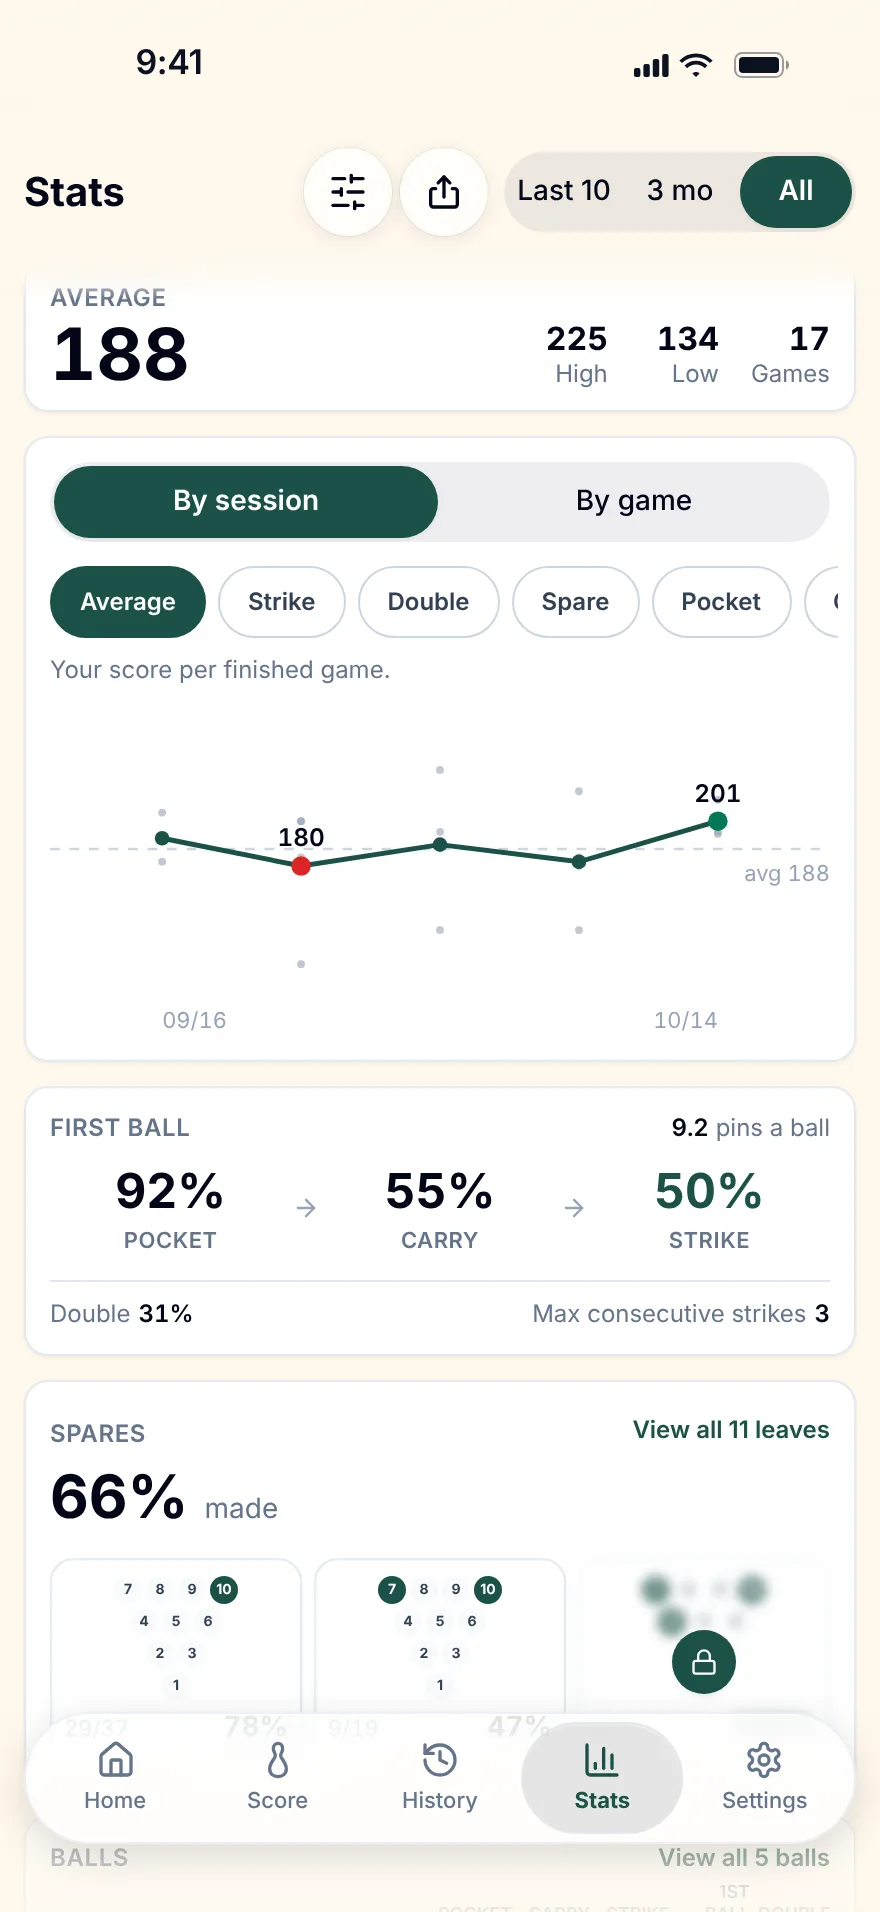
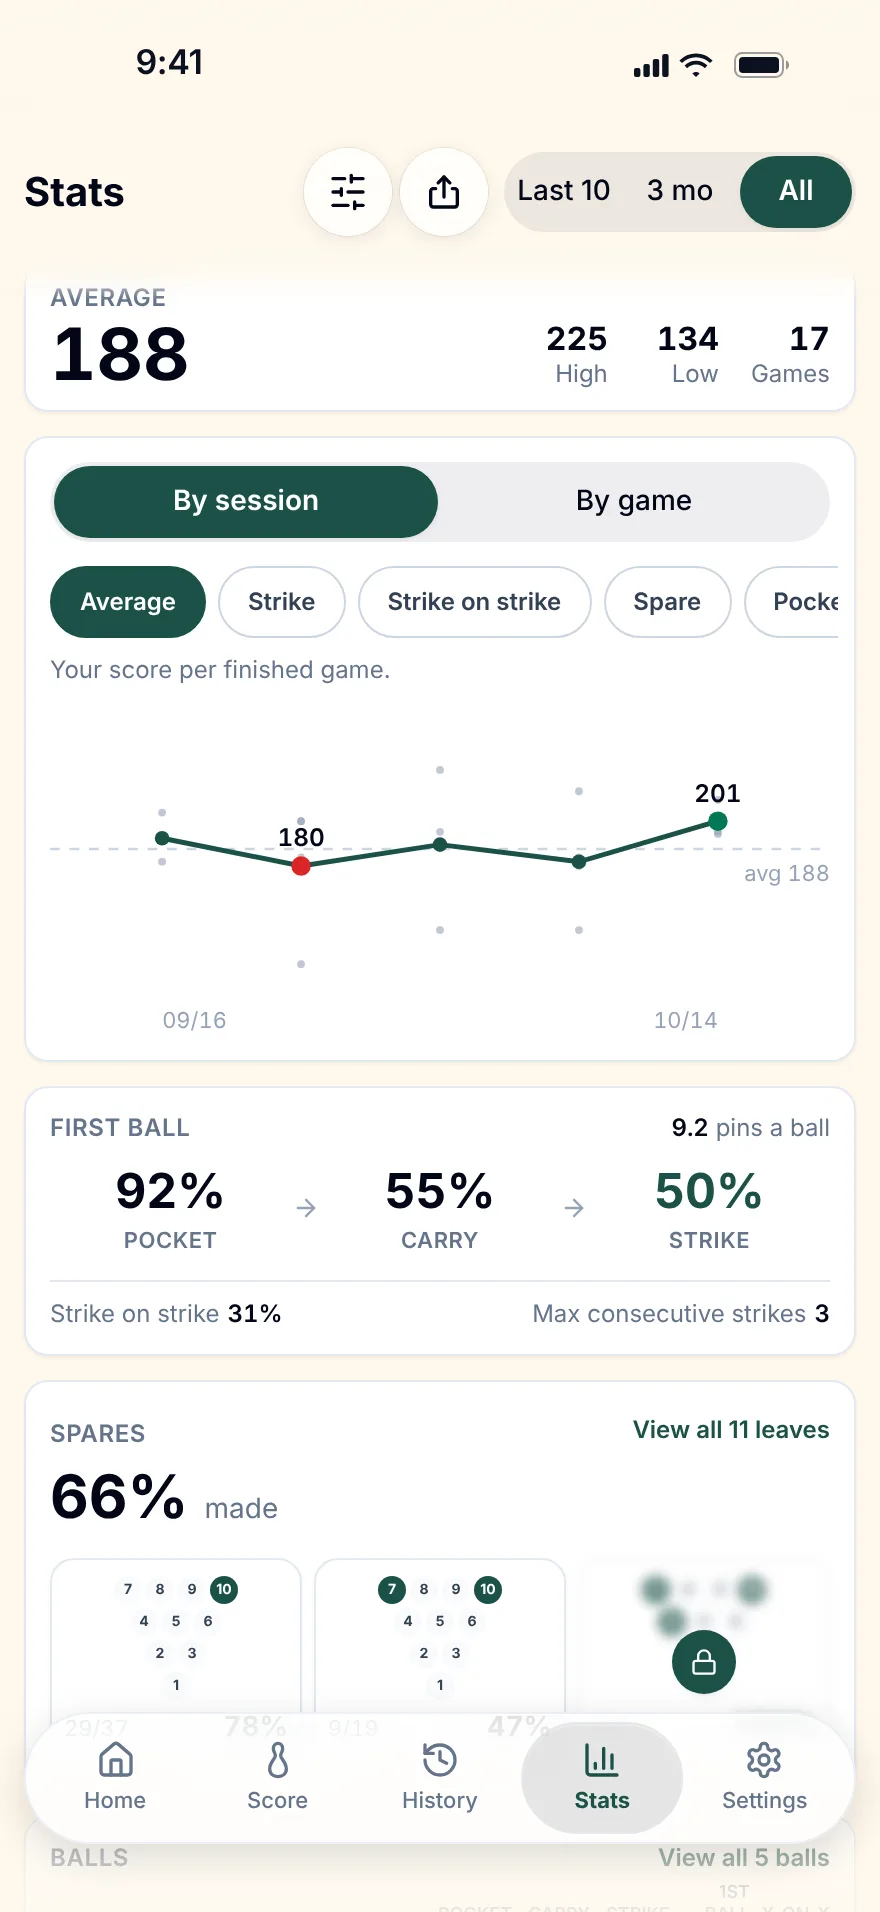
Strike on strike is back, X-on-X where space is tight
A double is two strikes in a row, not the rate a strike is followed by
another, so the label returns to Strike on strike. The Balls card's column
heading and a ball's table row read X-on-X, with the words for screen
readers. 0.56.1; screenshots retaken.

Claude-Session: https://claude.ai/code/session_014ZeUb7epEywcQcRZo3aizj

Changed region(s): [[0.4602, 0.3086, 0.9511, 0.3394], [0.0614, 0.6789, 0.3068, 0.7097]]

diff --git a/src/components/Stats.tsx b/src/components/Stats.tsx
@@ -67,9 +67,11 @@ const METRICS = {
     minSpan: 25
   },
   strikeOnStrikePct: {
-    // A double, as bowlers say it: a strike that follows a strike. "Strike on
-    // strike" said the same in three words, and a heading three lines tall.
-    label: "Double",
+    // Spelled out where there is room. Where there is not, it is "X-on-X", the
+    // scoresheet's own mark for a strike (STRIKE_ON_STRIKE_SHORT). "Double"
+    // was tried and is not the same thing: a double is two strikes in a row,
+    // where this is how often a strike was followed by another.
+    label: "Strike on strike",
     value: (s: BowlingStats) => s.strikeOnStrikePct,
     format: (v: number) => `${Math.round(v)}%`,
     min: 0,
@@ -738,7 +740,7 @@ function FirstBallCard({
       </dl>
       <dl className="mt-3 flex justify-between gap-3 border-t border-edge pt-2 text-xs text-ink-secondary">
         <div className="flex gap-1">
-          <dt>Double</dt>
+          <dt>Strike on strike</dt>
           <dd className="font-semibold tabular-nums text-ink">{pct(stats.strikeOnStrikePct)}</dd>
         </div>
         <div className="flex gap-1">
@@ -796,9 +798,13 @@ function StatNote({ text, onDismiss }: { text: string; onDismiss: () => void }) 
   );
 }
 
+/** Strike on strike where there is no room for the words: X is the strike's
+ *  mark on a scoresheet, so a bowler reads it at a glance. */
+const STRIKE_ON_STRIKE_SHORT = "X-on-X";
+
 /** A ball's columns, in order, shared by the heading row and every ball so
  *  each number sits under the word that names it. Strike leads the three
- *  rates it ends; the first ball average and the double rate follow. Sized so
+ *  rates it ends; the first ball average and strike on strike follow. Sized so
  *  all five fit beside the name on a 360px phone (ADR-144). */
 const BALL_COLUMNS: ReadonlyArray<{
   key: string;
@@ -810,7 +816,14 @@ const BALL_COLUMNS: ReadonlyArray<{
   { key: "carry", label: "Carry", width: "w-9", value: (b) => pct(b.carryPct) },
   { key: "strike", label: "Strike", width: "w-9", value: (b) => pct(b.strikePct) },
   { key: "first ball", label: "1st ball", width: "w-9", value: (b) => oneDp(b.firstBallAverage) },
-  { key: "double", label: "Double", width: "w-9", value: (b) => pct(b.strikeOnStrikePct) }
+  // The key is what a screen reader hears with each number; the heading is
+  // the short form, which fits one line where the words took three.
+  {
+    key: "strike on strike",
+    label: STRIKE_ON_STRIKE_SHORT,
+    width: "w-9",
+    value: (b) => pct(b.strikeOnStrikePct)
+  }
 ];
 
 /** The ball's picture and name, taking whatever the columns leave. Below about
@@ -956,7 +969,11 @@ function BallDetails({
               cells={ball.byGame.map((c) => pinsPerBall(c.firstBallPins, c.firstBalls))}
               format={oneDp}
             />
-            <MetricRow label="Double" cells={ball.byGame.map((c) => rateOf(c.followUps, c.followUpOpps))} />
+            <MetricRow
+              label={STRIKE_ON_STRIKE_SHORT}
+              spoken="Strike on strike"
+              cells={ball.byGame.map((c) => rateOf(c.followUps, c.followUpOpps))}
+            />
             <tr>
               <td className={`${ROW_NAME_CELL} text-left text-ink-tertiary`}>Balls</td>
               {ball.byGame.map((c) => (
@@ -1204,10 +1221,13 @@ const ROW_NAME_CELL = "sticky left-0 z-[1] bg-surface-muted pr-2";
 
 function MetricRow({
   label,
+  spoken,
   cells,
   format = pct
 }: {
   label: string;
+  /** What a screen reader hears where `label` is a short form ("X-on-X"). */
+  spoken?: string;
   cells: Array<number | null>;
   /** How a cell reads; a rate unless said otherwise. */
   format?: (value: number | null) => string;
@@ -1216,7 +1236,16 @@ function MetricRow({
   // a second copy cost the table its last column on a phone.
   return (
     <tr>
-      <td className={`${ROW_NAME_CELL} text-left font-semibold text-ink`}>{label}</td>
+      <td className={`${ROW_NAME_CELL} text-left font-semibold text-ink`}>
+        {spoken ? (
+          <>
+            <span aria-hidden="true">{label}</span>
+            <span className="sr-only">{spoken}</span>
+          </>
+        ) : (
+          label
+        )}
+      </td>
       {cells.map((value, i) => (
         <td key={i} className="pl-3 text-right">
           {format(value)}

diff --git a/src/components/Stats.test.tsx b/src/components/Stats.test.tsx
@@ -136,7 +136,7 @@ describe("the first ball", () => {
       "Pocket",
       "Carry",
       "Strike",
-      "Double",
+      "Strike on strike",
       "Max consecutive strikes"
     ]);
     expect(screen.getByText("Pocket").nextElementSibling).toHaveTextContent("90%");
@@ -144,14 +144,14 @@ describe("the first ball", () => {
   });
 });
 
-describe("the double rate and max consecutive strikes", () => {
+describe("strike on strike and max consecutive strikes", () => {
   it("sits with the first ball, and says what it counts on the chart", () => {
     render(<Stats stats={STATS} sessionMetrics={TREND} sessionTrend={SESSION_TREND} />);
     const card = screen.getByRole("heading", { name: "First ball" }).closest("section")!;
-    expect(within(card).getByText("Double").nextElementSibling).toHaveTextContent("47%");
+    expect(within(card).getByText("Strike on strike").nextElementSibling).toHaveTextContent("47%");
     expect(within(card).getByText("Max consecutive strikes").nextElementSibling).toHaveTextContent("4");
 
-    fireEvent.click(screen.getByRole("button", { name: "Double" }));
+    fireEvent.click(screen.getByRole("button", { name: "Strike on strike" }));
     expect(screen.getByText("Strikes the next ball struck too.")).toBeInTheDocument();
 
     fireEvent.click(screen.getByRole("button", { name: "Max consecutive strikes" }));
@@ -267,15 +267,15 @@ describe("stat definitions", () => {
     // Each ball names its own rates, so nothing has to be pinned over the list.
     for (let i = 1; i <= 7; i++) {
       const line = within(sheet).getByRole("region", { name: `Ball ${i} columns` });
-      expect(line).toHaveTextContent(/Pocket.*Carry.*Strike.*1st ball.*Double/);
+      expect(line).toHaveTextContent(/Pocket.*Carry.*Strike.*1st ball.*X-on-X/);
     }
   });
 
-  it("adds the first ball average and the double rate to each ball's row", () => {
+  it("adds the first ball average and strike on strike to each ball's row", () => {
     render(<Stats stats={STATS} ballPerformance={REPORT} />);
     const row = screen.getByRole("button", { name: "Open Wolverine" });
     expect(within(row).getByLabelText("first ball 9.3")).toBeInTheDocument();
-    expect(within(row).getByLabelText("double 75%")).toBeInTheDocument();
+    expect(within(row).getByLabelText("strike on strike 75%")).toBeInTheDocument();
   });
 
   it("keeps the ball columns in one scroller, all rows together, on the card", () => {
@@ -287,10 +287,11 @@ describe("stat definitions", () => {
     // A long name wraps to a second line rather than being cut at the first.
     expect(within(scroller).getByText("Wolverine")).toHaveClass("line-clamp-2");
     expect(within(scroller).getByRole("button", { name: "Open Wolverine" })).toBeInTheDocument();
-    expect(within(scroller).getByText("Double")).toBeInTheDocument();
+    // Short where columns are tight: X is a strike's mark on the scoresheet.
+    expect(within(scroller).getByText("X-on-X")).toBeInTheDocument();
   });
 
-  it("gives each ball's table a first ball and a double row, scrolled sideways", async () => {
+  it("gives each ball's table a first ball and an X-on-X row, scrolled sideways", async () => {
     render(<Stats stats={STATS} ballPerformance={REPORT} />);
     fireEvent.click(screen.getByRole("button", { name: /^View all \d+ balls?$/ }));
     const sheet = await screen.findByRole("dialog", { name: "Balls" });
@@ -299,7 +300,8 @@ describe("stat definitions", () => {
     const rows = within(table).getAllByRole("row").map((r) => r.textContent);
     // Game 4: 111 pins over 12 balls, and 6 of 8 strikes followed by a strike.
     expect(rows).toContain("1st ball9.3");
-    expect(rows).toContain("Double75%");
+    // Read as the words, shown as the short form.
+    expect(rows).toContain("X-on-XStrike on strike75%");
   });
   it("ranks the balls by strike rate, and puts a thin one last however it strikes", () => {
     const ball = REPORT.balls[0];

diff --git a/docs/CHANGELOG.md b/docs/CHANGELOG.md
@@ -9,6 +9,14 @@ shipped as. The dated sections below `0.2.0` were all shipped as `0.1.0`.
 Thirty of them used to be headed `[Unreleased]`, which said nothing once they
 had all shipped.
 
+## 0.56.1: Strike on strike is back (2026-10-22)
+
+- **"Double" is "Strike on strike" again.** A double is two strikes in a row;
+  this number is how often a strike was followed by another, which is not the
+  same thing. Where the columns are tight (the Balls card's headings, a ball's
+  table by game) it reads "X-on-X", X being a strike's mark on the scoresheet,
+  and a screen reader still hears the words.
+
 ## 0.56.0: A session's header carries it, and you can see which option is picked (2026-10-22)
 
 - **Tap a session's name to edit it.** The pencil is gone. Tapping the alley
